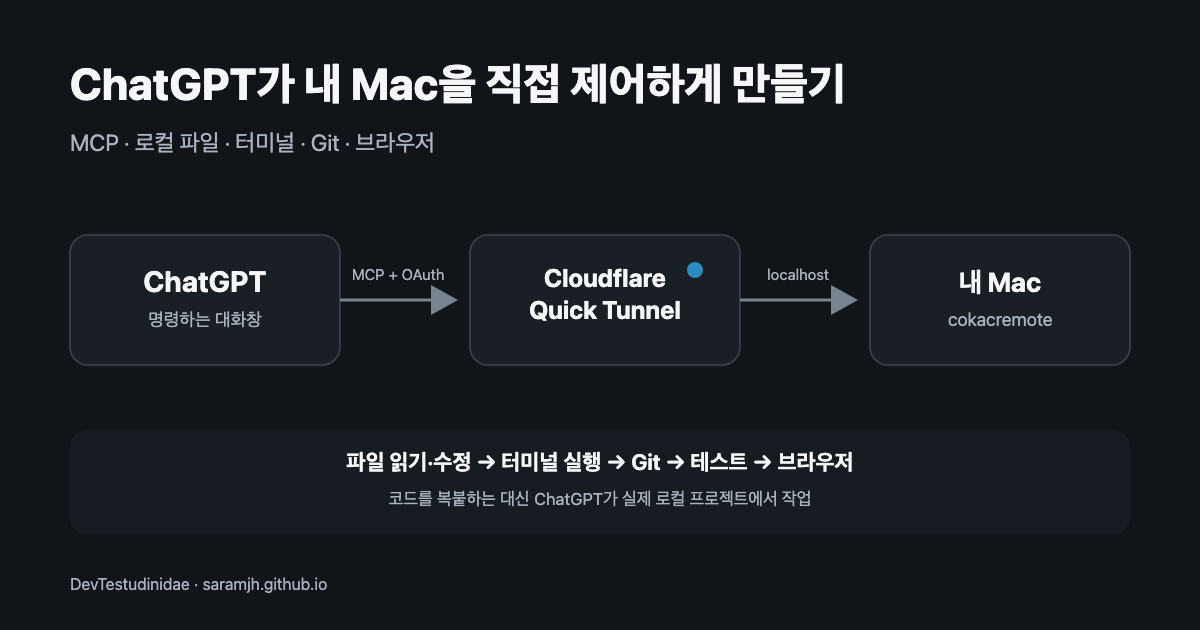
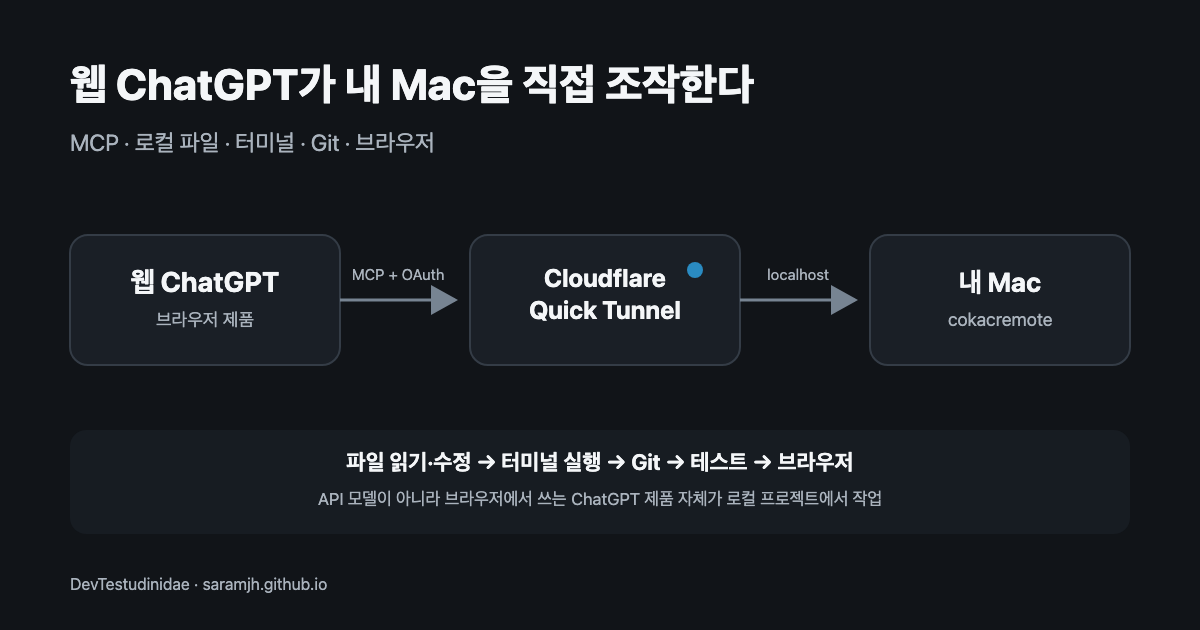
fix(posts): clarify web ChatGPT control workflow

Changed region(s): [[0.0617, 0.0905, 0.7092, 0.181], [0.2467, 0.754, 0.74, 0.8143], [0.0925, 0.4222, 0.2467, 0.5429]]

diff --git a/_posts/en-chatgpt-mcp-local-development-setup/2026-10-04-en-chatgpt-mcp-local-development-setup.md b/_posts/en-chatgpt-mcp-local-development-setup/2026-10-04-en-chatgpt-mcp-local-development-setup.md
@@ -1,5 +1,5 @@
 ---
-title: "How I Let ChatGPT Control My Mac with MCP: Files, Terminal, Git & Browser"
+title: "The ChatGPT Web App Controls My Mac: MCP Setup"
 date: 2026-10-04
 tags: ChatGPT, MCP, Model Context Protocol, ChatGPT local computer control, ChatGPT local files, ChatGPT terminal, ChatGPT MCP server, Cloudflare Tunnel, Quick Tunnel, cokacremote, AI coding
 permalink: /en-chatgpt-mcp-local-development-setup/
@@ -7,13 +7,15 @@ layout: default
 lang: en
 alternate_lang: ko
 alternate_url: /chatgpt-mcp-local-development-setup/
-description: "How I let ChatGPT control my local Mac through MCP: read and edit files, run terminal commands, use Git, run tests and browser automation with cokacremote, Cloudflare Tunnel and OAuth."
-excerpt: "This is not just using ChatGPT as a coding assistant. Through MCP, ChatGPT can work on the real files, terminal and Git repositories on my Mac. Here is the setup I actually use."
+description: "The ChatGPT web app controls my local Mac through MCP: it can read and edit files, run terminal commands, use Git, run tests and automate the browser."
+excerpt: "Not an API model or a separate CLI coding agent: the browser-based ChatGPT web app itself works on the real files, terminal and Git repositories on my Mac through MCP."
 seo:
-  title: "Let ChatGPT Control Your Mac with MCP: Files, Terminal & Git"
-  description: "Connect ChatGPT to your local Mac with MCP so it can read and edit files, run terminal commands, Git, tests and browser automation through an authenticated tunnel."
+  title: "ChatGPT Web App Controls Mac Files & Terminal via MCP"
+  description: "The ChatGPT web app uses MCP to read and edit local Mac files, run terminal commands, Git, tests and browser automation."
   keywords:
     - ChatGPT MCP
+    - ChatGPT web app MCP
+    - ChatGPT on the web MCP
     - ChatGPT MCP server
     - ChatGPT local computer
     - ChatGPT local files
@@ -23,7 +25,7 @@ seo:
     - MCP Cloudflare Tunnel
     - ChatGPT local coding agent
 faq:
-  - q: "Can ChatGPT read and edit files directly on my local Mac?"
+  - q: "Can the ChatGPT web app read and edit files directly on my local Mac?"
     a: "Yes, if you expose those capabilities through an authenticated MCP server. ChatGPT on the web does not simply connect to localhost, so the setup needs a reachable remote MCP endpoint or supported secure tunnel. In this setup, cokacremote exposes the local tools and Cloudflare Tunnel plus OAuth provides the connection."
   - q: "Can ChatGPT run terminal commands, Git and tests through MCP?"
     a: "Yes, when the MCP server exposes those tools and the connection is allowed to use them. This setup can execute shell commands, modify files, inspect Git, run builds and tests, and use browser automation on the local Mac."
@@ -34,29 +36,32 @@ image_width: 1200
 image_height: 630
 ---
 
-# How I Let ChatGPT Control My Mac with MCP: Files, Terminal, Git & Browser
+# The ChatGPT Web App Controls My Mac
+
+**MCP access to local files, terminal, Git and browser automation**
 
 <p style="background: rgba(0, 120, 212, 0.08); border-left: 4px solid #0078d4; padding: 10px 14px; margin-bottom: 22px; border-radius: 4px; font-size: 0.95rem;">
-  🌐 <strong>한국어 버전:</strong> <a href="/chatgpt-mcp-local-development-setup/">ChatGPT가 내 Mac을 직접 제어하게 만들기: MCP로 파일·터미널·Git 연결</a>
+  🌐 <strong>한국어 버전:</strong> <a href="/chatgpt-mcp-local-development-setup/">웹 ChatGPT로 Mac 제어</a>
 </p>
 
-<strong>This is not a story about me using ChatGPT as a coding assistant.</strong> In this setup, I can point ChatGPT at a project and it can use MCP to read the real directory on my Mac, run terminal commands, edit files, execute tests, and inspect the Git diff.\n\n<strong>This is not a story about me using ChatGPT as a coding assistant.</strong> In this setup, I can point ChatGPT at a project and it can use MCP to read the real directory on my Mac, run terminal commands, edit files, execute tests, and inspect the Git diff.\n\nThe part of AI-assisted coding that annoyed me most wasn't generating code. It was the boundary between a ChatGPT conversation and the project actually sitting on my machine.
+This is **not about using an OpenAI model in the abstract, nor a separate local coding agent such as Codex CLI**. The subject here is the **ChatGPT web app running in my browser**.
 
-I would check <code>git status</code>, open a file, copy the relevant section into ChatGPT, paste the answer back into the repository, run tests, and then repeat the same explanation in a new chat: what the project is, what changed, what must not be touched, and what I already tried.
+From a normal ChatGPT conversation, I can point at a project and use the connected MCP to read the real directory on my Mac, run terminal commands, edit files, execute tests, and inspect the Git diff.
 
-Eventually I inverted the workflow.
+Previously I would check `git status`, copy the relevant code into ChatGPT, paste the answer back into the repository, and then run the tests myself. A new chat also meant explaining the project state again.
 
-<strong>ChatGPT can now inspect the real project on my Mac, run shell commands, edit files, check Git, run tests, and use browser automation through MCP.</strong> This post itself was prepared by letting ChatGPT inspect and edit the local Jekyll repository where the blog lives.
+Now the ChatGPT web app can work against **the current local project instead of a pasted snapshot**. This post itself was written while ChatGPT inspected and edited the local Jekyll repository through that connection.
 
-<img src="architecture.svg" alt="Architecture connecting ChatGPT through a Cloudflare Quick Tunnel and MCP to cokacremote on a local Mac" width="1200" height="700">
+<img src="architecture.svg" alt="Architecture connecting ChatGPT through a Cloudflare Quick Tunnel and MCP to cokacremote on a local Mac" width="1200" height="700" style="width:100%;height:auto;">
 
-## The MCP setup that lets ChatGPT control my local Mac
+## Connecting the ChatGPT web app to my local Mac with MCP
 
 The core is a [Model Context Protocol (MCP)](https://modelcontextprotocol.io/) server. Mine is based on [cokacremote](https://github.com/kstost/cokacremote), running locally on my Mac.
 
 At a high level:
 
-<pre><code>ChatGPT
+```text
+ChatGPT
    ↓  MCP over HTTPS + OAuth
 Cloudflare Quick Tunnel
    ↓
@@ -68,13 +73,14 @@ my Mac
  ├─ Git
  ├─ builds and tests
  ├─ browser automation
- └─ project context</code></pre>
+ └─ project context
+```
 
-OpenAI's current developer documentation supports connecting an HTTPS <code>/mcp</code> endpoint from ChatGPT developer mode. For development, Cloudflare Quick Tunnels can give a local HTTP service a temporary public <code>trycloudflare.com</code> URL without first setting up a permanent domain.
+OpenAI's current developer documentation supports connecting an HTTPS `/mcp` endpoint from ChatGPT developer mode. For development, Cloudflare Quick Tunnels can give a local HTTP service a temporary public `trycloudflare.com` URL without first setting up a permanent domain.
 
-One point matters more than the convenience: <strong>the tunnel is not the security boundary.</strong> My MCP server can execute commands and modify or delete files with the permissions of the local process. I therefore run it behind OAuth and make the setup script explicitly verify that an unauthenticated <code>/mcp</code> request gets <code>401</code>.
+One point matters more than the convenience: **the tunnel is not the security boundary.** My MCP server can execute commands and modify or delete files with the permissions of the local process. I therefore run it behind OAuth and make the setup script explicitly verify that an unauthenticated `/mcp` request gets `401`.
 
-## What changes when ChatGPT can access local files and the terminal
+## What changes when the ChatGPT web app can use local files and the terminal
 
 My original goal was basically "remote shell access from ChatGPT." In practice, the useful part isn't the shell by itself.
 
@@ -84,39 +90,39 @@ I can start a conversation with something like:
 
 From there, the conversation can drive the full loop.
 
-<img src="project-workflow.svg" alt="Workflow where ChatGPT bootstraps project context, checks Git and code, edits, verifies, and checkpoints the result" width="1200" height="690">
+<img src="project-workflow.svg" alt="Workflow where ChatGPT bootstraps project context, checks Git and code, edits, verifies, and checkpoints the result" width="1200" height="690" style="width:100%;height:auto;">
 
-Instead of me manually doing <code>git status → find docs → inspect code → edit → test → review diff</code>, ChatGPT can perform those steps against the repository that actually exists on disk.
+Instead of me manually doing `git status → find docs → inspect code → edit → test → review diff`, ChatGPT can perform those steps against the repository that actually exists on disk.
 
 That distinction matters. The model is no longer reasoning only from a pasted snapshot. If another session changed the code, or I edited something manually, the next session can re-read the current Git and filesystem state before making decisions.
 
 ## I automated the Quick Tunnel setup too
 
-Initially I started the MCP server, launched <code>cloudflared</code>, copied the newly generated URL, adjusted OAuth-related settings, and reconnected ChatGPT by hand.
+Initially I started the MCP server, launched `cloudflared`, copied the newly generated URL, adjusted OAuth-related settings, and reconnected ChatGPT by hand.
 
 That got old quickly.
 
-I now use a <code>setup-oauth-quicktunnel.sh</code> script that handles most of the boring parts.
+I now use a `setup-oauth-quicktunnel.sh` script that handles most of the boring parts.
 
 The current version roughly does this:
 
 1. Locate and validate the real cokacremote checkout
 2. Inspect the currently running local service
 3. Build it if required
-4. Start a Quick Tunnel pointing at <code>127.0.0.1:3000</code>
+4. Start a Quick Tunnel pointing at `127.0.0.1:3000`
 5. Extract the generated public URL
 6. Prepare OAuth state and key material
 7. Start the MCP server with the public URL
-8. Verify local <code>/health</code>
-9. Verify public <code>/health</code>
+8. Verify local `/health`
+9. Verify public `/health`
 10. Verify OAuth discovery metadata
-11. <strong>Verify that unauthenticated <code>/mcp</code> returns <code>401</code></strong>
+11. **Verify that unauthenticated `/mcp` returns `401`**
 12. Print the MCP URL to enter in ChatGPT
 13. Clean up only the processes the script itself owns when it exits
 
-I don't want a real tunnel hostname or approval key in a public screenshot, so the following image is a <strong>redacted reconstruction of the verified output flow</strong>, not a screenshot containing my live credentials.
+I don't want a real tunnel hostname or approval key in a public screenshot, so the following image is a **redacted reconstruction of the verified output flow**, not a screenshot containing my live credentials.
 
-<img src="setup-terminal-redacted.svg" alt="Sanitized terminal output for the Cloudflare Quick Tunnel and OAuth MCP setup script" width="1200" height="720">
+<img src="setup-terminal-redacted.svg" alt="Sanitized terminal output for the Cloudflare Quick Tunnel and OAuth MCP setup script" width="1200" height="720" style="width:100%;height:auto;">
 
 A Quick Tunnel hostname is temporary and can change when the process restarts. That's fine for how I currently use this on my own development machine. If I needed a stable long-lived endpoint, I would use a named Cloudflare Tunnel or another permanent HTTPS deployment instead.
 
@@ -124,13 +130,14 @@ A Quick Tunnel hostname is temporary and can change when the process restarts. T
 
 Giving ChatGPT filesystem access solves only part of the problem.
 
-It can see the current code, but it does not automatically know <strong>why a decision was made, which approach was rejected, what a previous session finished, or which constraints are still active</strong>.
+It can see the current code, but it does not automatically know **why a decision was made, which approach was rejected, what a previous session finished, or which constraints are still active**.
 
 So I added a lightweight project-context layer.
 
 The authority order I use is roughly:
 
-<pre><code>current executable code / Git state
+```text
+current executable code / Git state
         ↓
 current-state docs / checkpoint
         ↓
@@ -138,27 +145,32 @@ accepted architecture and decisions
         ↓
 older project memory
         ↓
-old conversation memory</code></pre>
+old conversation memory
+```
 
 The key rule is that old memory never gets to override the repository.
 
 At a project or session boundary I run a fast bootstrap that reads the current Git state and the small amount of current project context needed to resume work. Meaningful decisions and material changes are checkpointed back into the repository. Deeper historical recall is optional instead of being loaded on every prompt.
 
-I'm still testing this part. <strong>A feature working is not the same thing as proving that it reduces total token or time cost</strong>, so I'm deliberately not claiming that the context layer is already an optimal solution.
+I'm still testing this part. **A feature working is not the same thing as proving that it reduces total token or time cost**, so I'm deliberately not claiming that the context layer is already an optimal solution.
 
 ## What changed in day-to-day use
 
 Before:
 
-<pre><code>Here is the file...
+```text
+Here is the file...
 Here is the error...
 Another model changed this...
 Don't touch these parts...
-This is what I tried...</code></pre>
+This is what I tried...
+```
 
 Now:
 
-<pre><code>Inspect this project and verify its current state first.</code></pre>
+```text
+Inspect this project and verify its current state first.
+```
 
 That doesn't make the model infallible. In fact, because the model has real host access, I need stricter operating rules than I did when it was only returning code snippets.
 
@@ -171,13 +183,13 @@ The rules that matter most in my setup are:
 - checkpoint meaningful implementation or architecture decisions;
 - never expose write-capable MCP tools anonymously on a public endpoint.
 
-With those rules in place, ChatGPT feels less like a code-generation window and more like a <strong>control surface for the development environment that already exists on my machine</strong>.
+With those rules in place, ChatGPT feels less like a code-generation window and more like a **control surface for the development environment that already exists on my machine**.
 
 ## Why I am not publishing every line of the setup here
 
 I intentionally left out some details.
 
-The full <code>setup-oauth-quicktunnel.sh</code>, the complete OAuth approval configuration, the tunnel URL retry logic, and the exact project-checkpoint format would make this post much longer. More importantly, this MCP server has powerful host permissions. I don't want a partial copy-paste recipe to encourage someone to expose an unrestricted local command server carelessly.
+The full `setup-oauth-quicktunnel.sh`, the complete OAuth approval configuration, the tunnel URL retry logic, and the exact project-checkpoint format would make this post much longer. More importantly, this MCP server has powerful host permissions. I don't want a partial copy-paste recipe to encourage someone to expose an unrestricted local command server carelessly.
 
 The architecture and security boundary are not hidden, though.
 
@@ -195,7 +207,7 @@ If I can share the relevant part safely, I'll post the actual configuration or a
 
 ## FAQ
 
-### Can ChatGPT read and edit files directly on my local Mac?
+### Can the ChatGPT web app read and edit files directly on my local Mac?
 
 Yes, if those capabilities are exposed through an authenticated MCP server. ChatGPT on the web does not simply connect to your machine's localhost; the setup needs a reachable remote MCP endpoint or a supported secure tunnel. In my setup, **cokacremote exposes the local tools and Cloudflare Tunnel plus OAuth provides the connection**.
 
@@ -214,4 +226,4 @@ No. A tunnel provides connectivity, not authorization. A write-capable MCP serve
 - [Cloudflare Docs — Quick Tunnels](https://developers.cloudflare.com/tunnel/get-started/quick-tunnels/)
 - [Model Context Protocol](https://modelcontextprotocol.io/)
 
-My current takeaway is simple: <strong>for serious development work, giving ChatGPT a properly authenticated MCP interface to the real environment feels much more natural than continuously copying snapshots of that environment into the chat.</strong> Once you do that, though, permissions and state verification become first-class engineering problems.
+My current takeaway is simple: **for serious development work, giving ChatGPT a properly authenticated MCP interface to the real environment feels much more natural than continuously copying snapshots of that environment into the chat.** Once you do that, though, permissions and state verification become first-class engineering problems.
